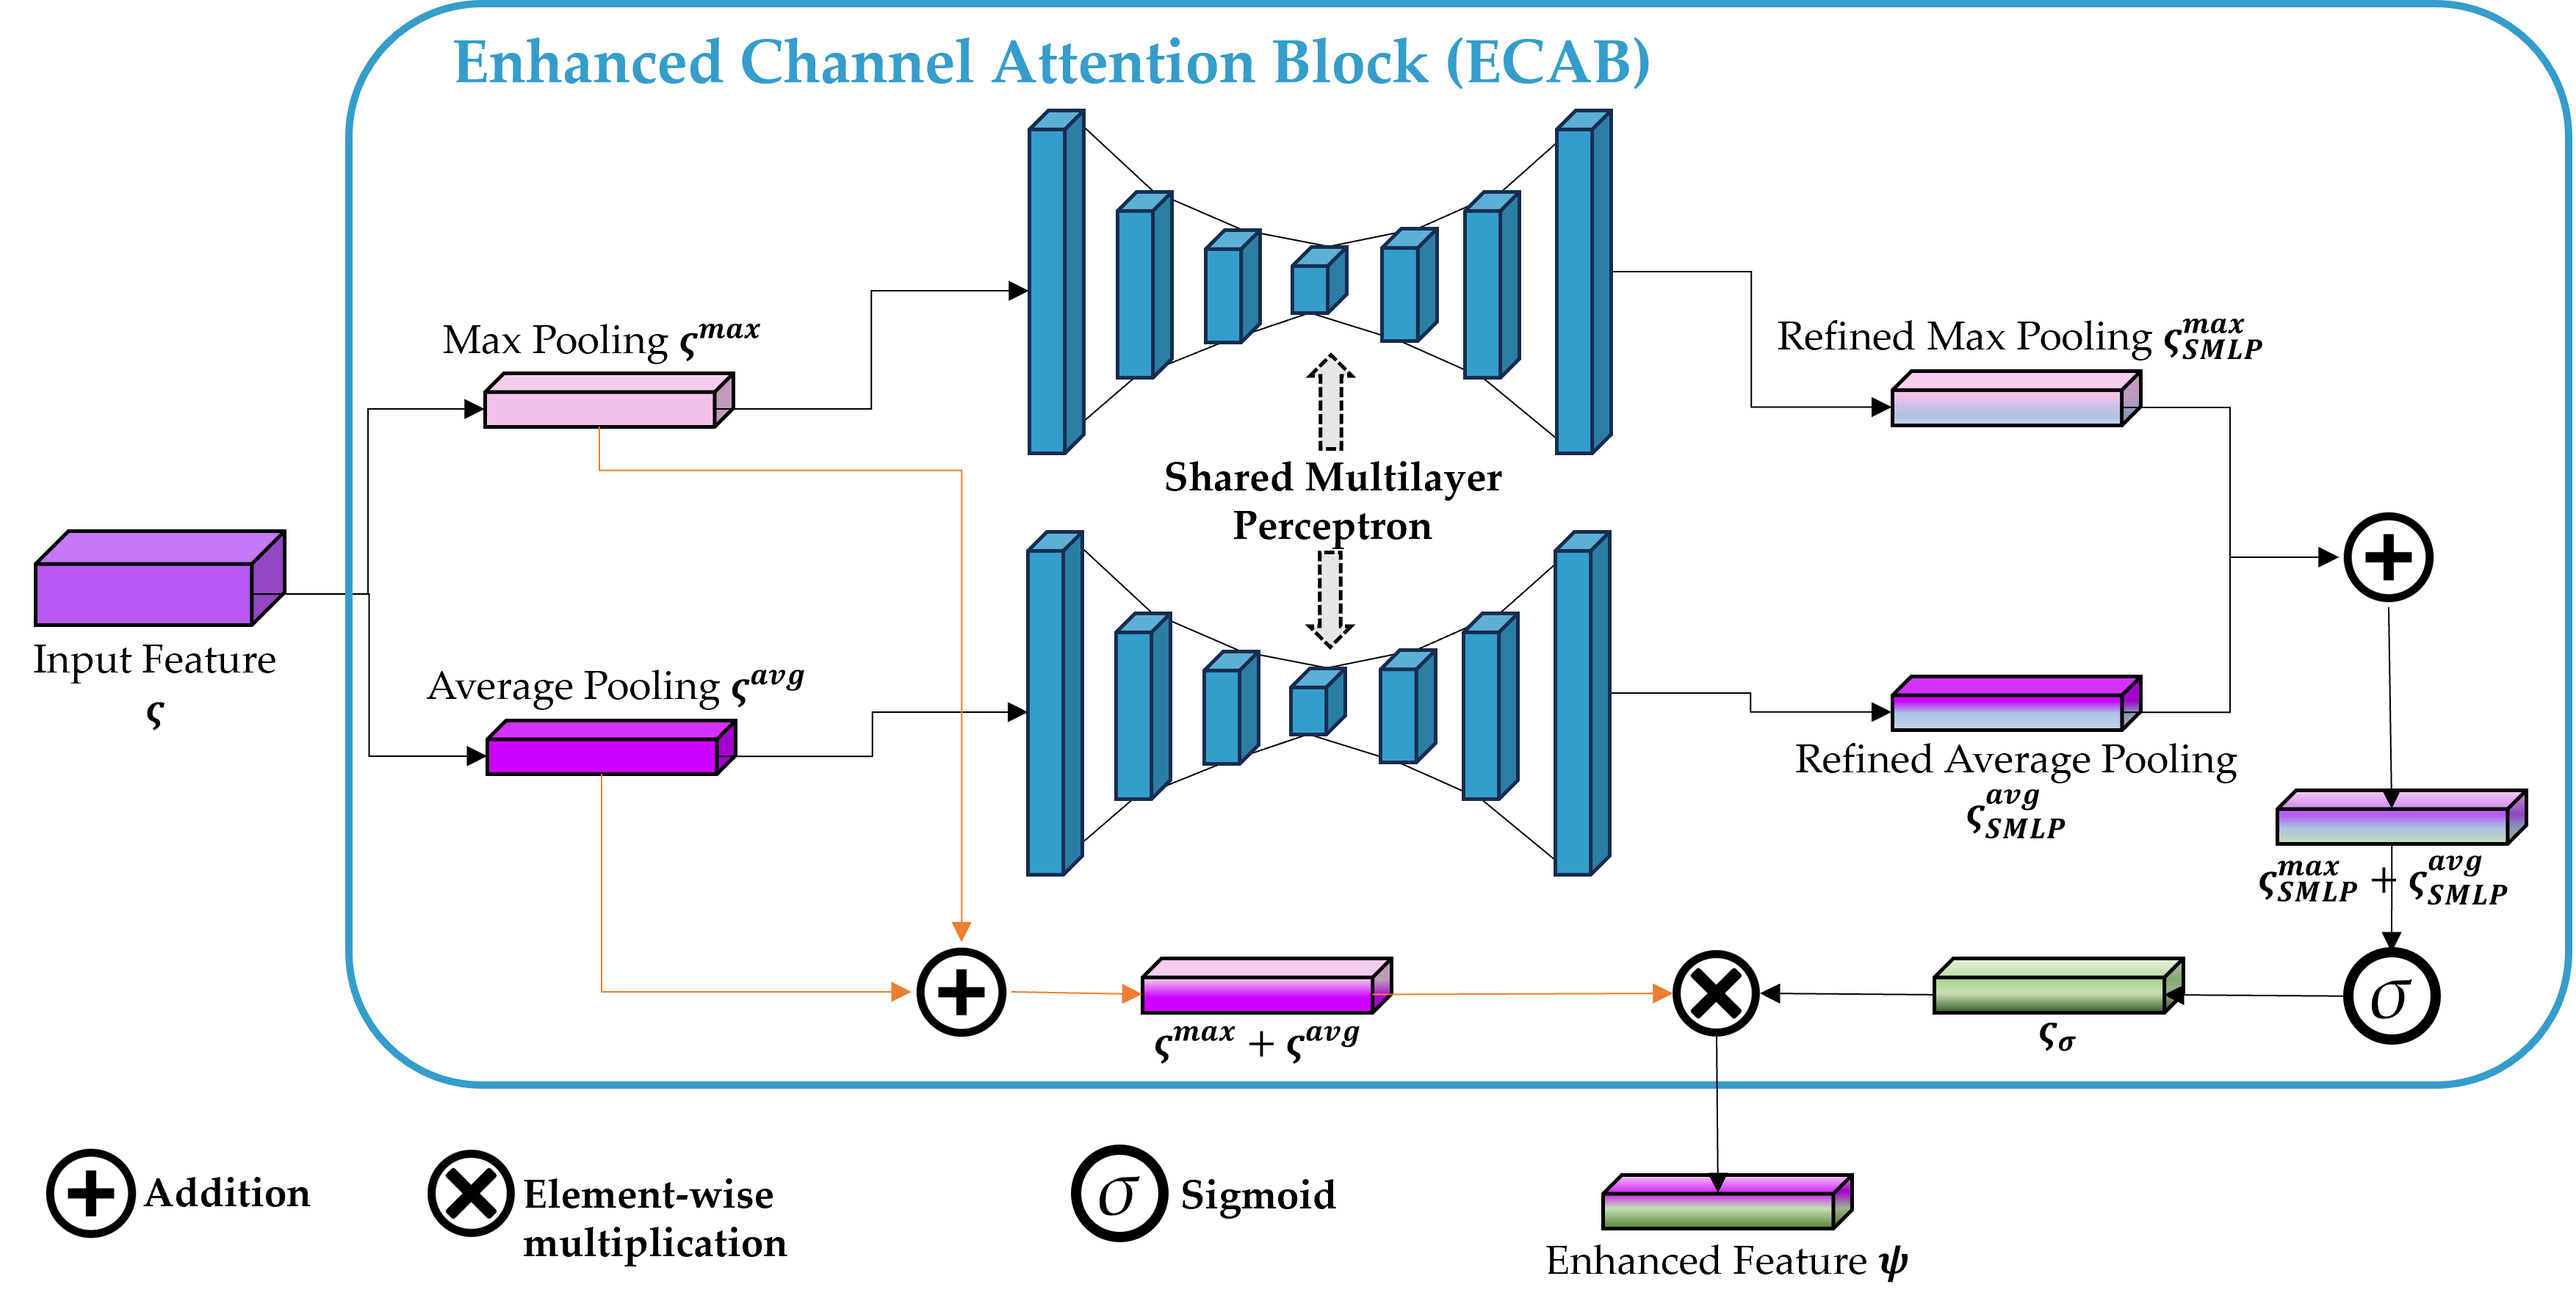
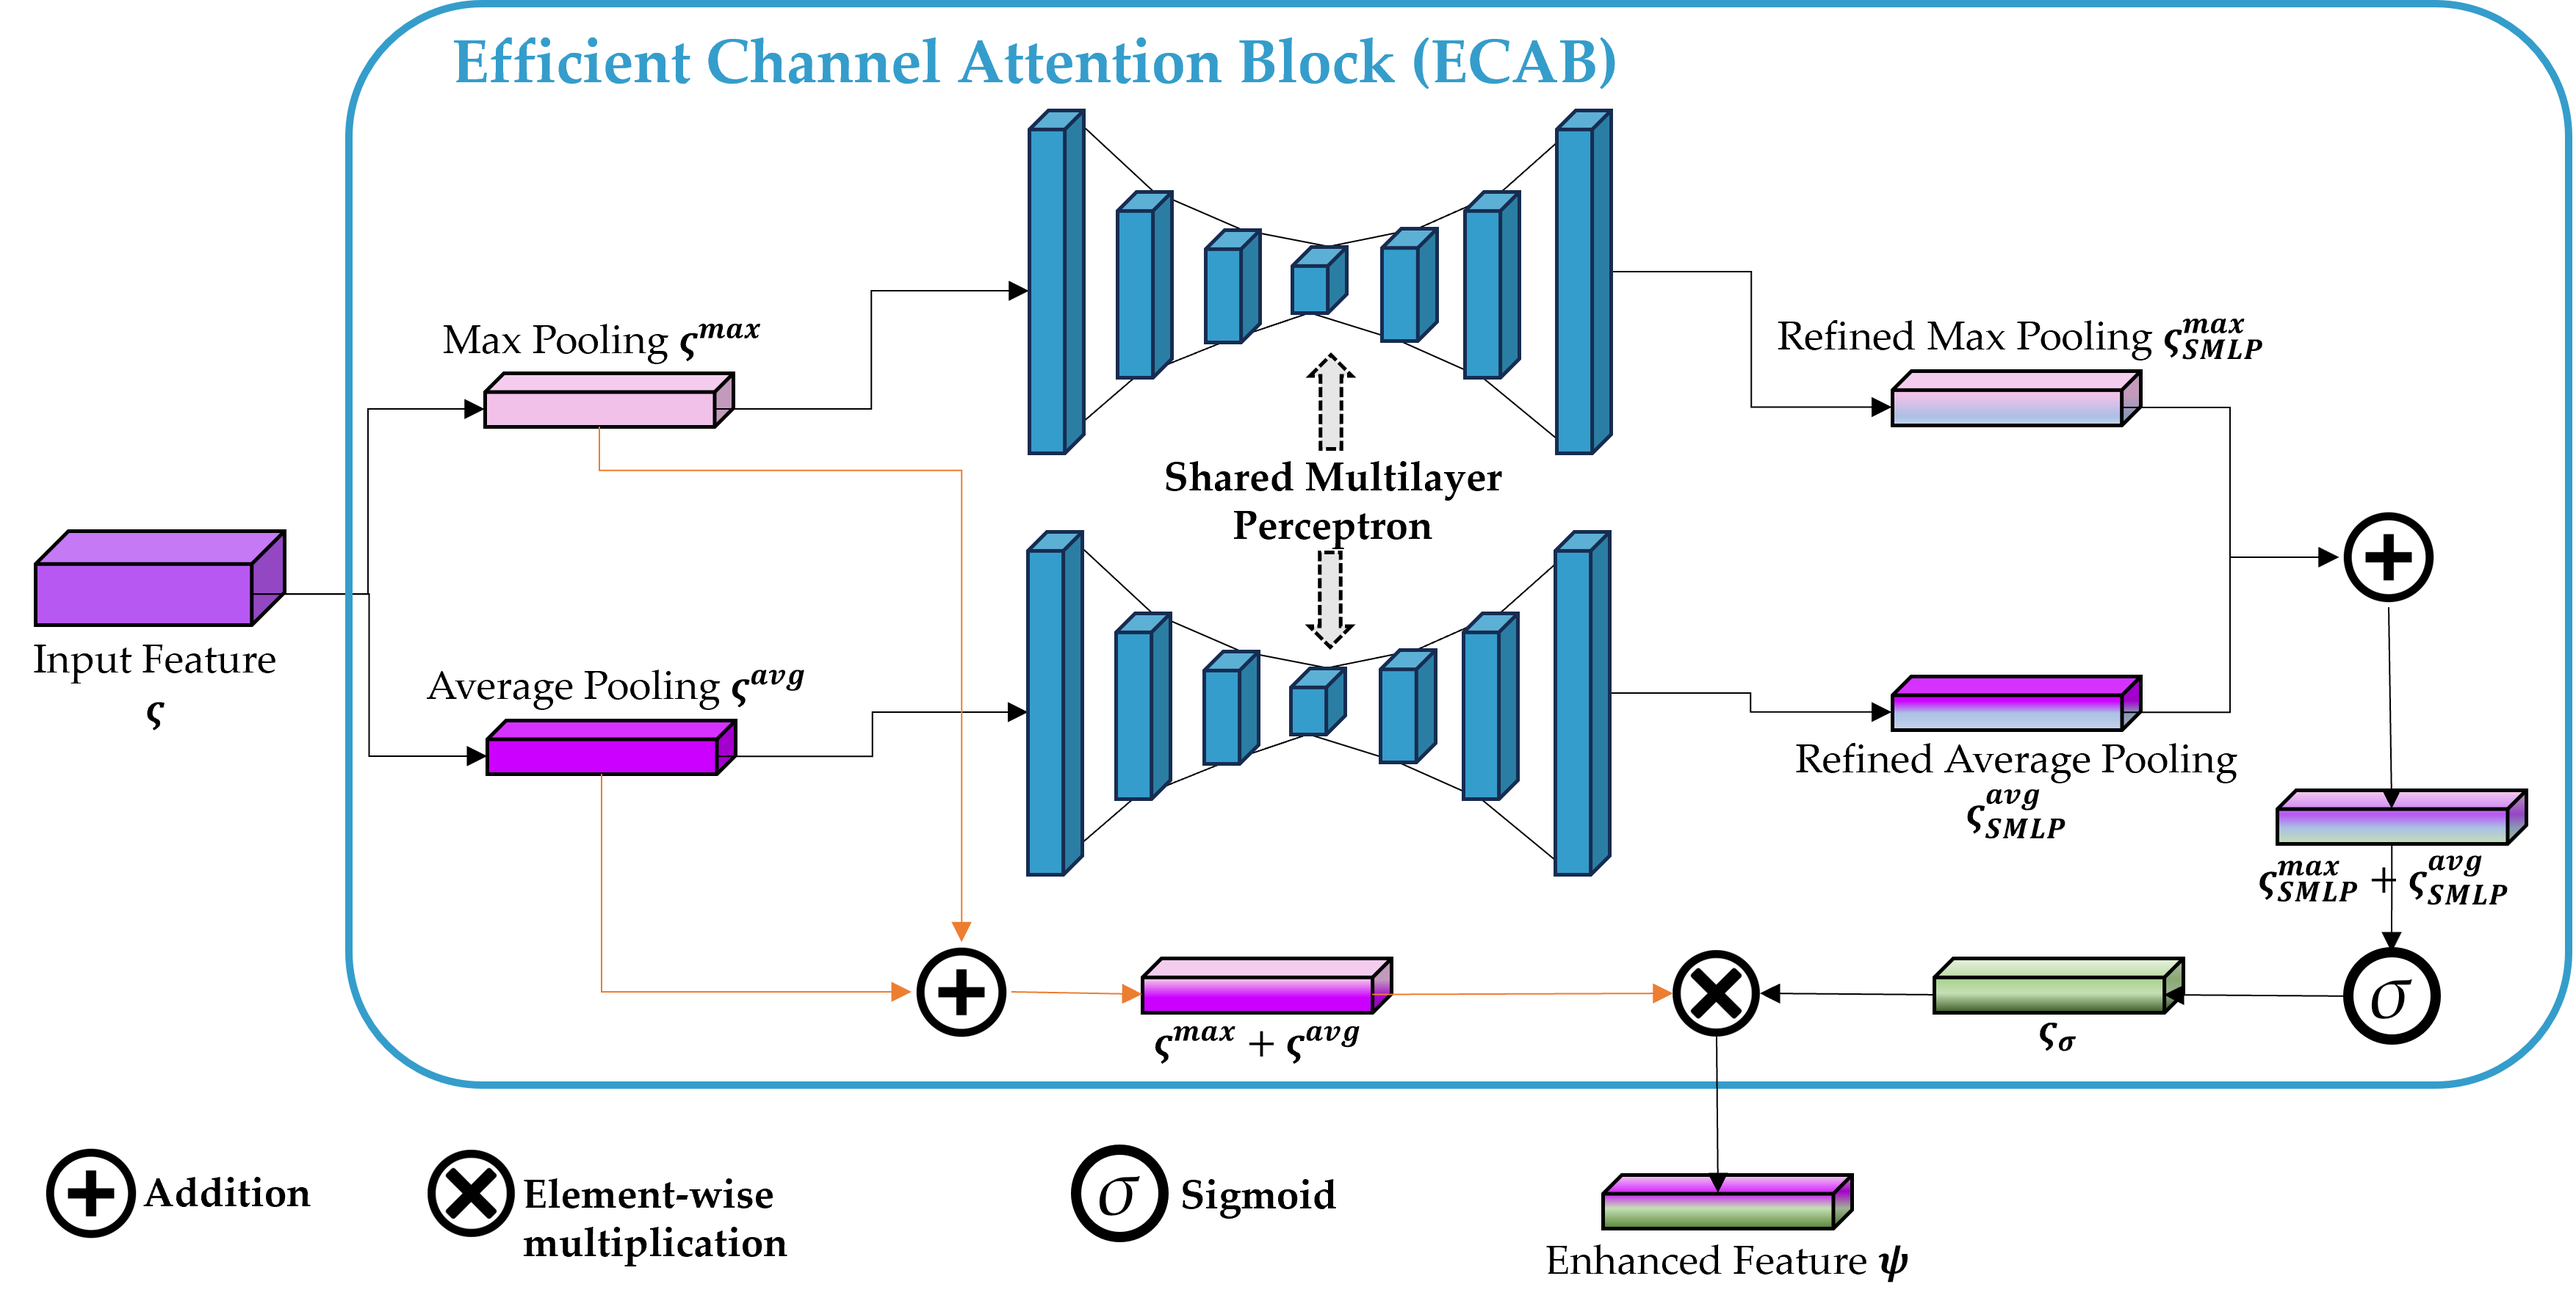
update images and texts

Changed region(s): [[0.1865, 0.0308, 0.6527, 0.0617]]

diff --git a/index.html b/index.html
@@ -91,18 +91,20 @@
           <h1 class="title is-1 publication-title">CORE-ReID: <u>C</u>omprehensive <u>O</u>ptimization and <u>R</u>efinement through <u>E</u>nsemble fusion in Domain Adaptation for person re-identification</h1>
           <div class="is-size-4 publication-authors">
             <span class="author-block">
-              <a href="">Trinh Quoc Nguyen</a><sup>1</sup>,</span>
+              <a href="">Trinh Quoc Nguyen</a><sup>1, 2, *</sup>,</span>
             <span class="author-block">
-              <a href="">Oky Dicky Ardiansyah Prima </a><sup>1</sup>,</span>
+              <a href="">Oky Dicky Ardiansyah Prima </a><sup>1, *</sup>,</span>
             <span class="author-block">
               <a href="">Katsuyoshi Hotta</a><sup>2</sup>.
           </div>
           <br>
           <div class="is-size-5 publication-authors">
             <span class="author-block"><sup>1</sup><a href="https://www.iwate-pu.ac.jp/en/">Iwate Prefectural University</a>,</span>
-            <span class="author-block"><sup>2</sup><a href="https://cybercore.co.jp/">Cybercore AI</a>.</span>
+            <span class="author-block"><sup>2</sup><a href="https://cybercore.co.jp/">CyberCore Co., Ltd</a>.</span>
           </div>
-
+          <div class="is-size-5 publication-authors">
+            <span class="author-block"><sup>*</sup> Correspondence: <a href="">g236v201@s.iwate-pu.ac.jp (T.Q.N.)</a>; <a href="">prima@iwate-pu.ac.jp (O.D.A.P.)</a>.</span>
+          </div>
           <div class="column has-text-centered">
             <div class="publication-links">
               <!-- PDF Link. -->
@@ -136,7 +138,7 @@
               </span>
               <!-- Code Link. -->
               <span class="link-block">
-                <a href=""
+                <a href="https://github.com/TrinhQuocNguyen/CORE-ReID"
                    class="external-link button is-normal is-rounded is-dark">
                   <span class="icon">
                       <i class="fab fa-github"></i>
@@ -190,14 +192,17 @@
              to address Unsupervised Domain Adaptation (UDA) for person Re-identification (ReID).
           </p>
           <p>
-            The framework utilizes CycleGAN to generate diverse data that harmonizes differences 
-            in image characteristics from different camera sources.
-             Based on a pair of teacher-student networks, the framework integrates multi-view features for
-              multi-level clustering to derive diverse pseu-do-labels. 
-              A learnable Ensemble Fusion (EF) that focuses on fine-grained local information within global features 
-              is introduced to enhance learning comprehensiveness and avoid ambiguity asso-ciated with multiple pseudo-labels.
-               Experimental results on two common UDA in person ReID demonstrate significant performance gains over state-of-the-art approaches. Additional enhancements, such as Random Color Dropout to mitigate deviation effects and adaptive fusion of global and local features using the Resnet101 model, 
-            further contribute to the robustness of the framework. 
+            The framework utilizes CycleGAN to generate diverse data that harmonizes differences in image characteristics 
+            from different camera sources in the pre-training stage. 
+            In the fine-tuning stage, based on a pair of teacher-student networks, 
+            the framework integrates multi-view features for multi-level clustering to derive diverse pseudo labels. 
+            A learnable Ensemble Fusion component that focuses on fine-grained local information within global features 
+            is introduced to enhance learning comprehensiveness and avoid ambiguity associated with multiple pseudo labels. 
+            Experimental results on three common UDA in person ReID demonstrate significant performance gains 
+            over state-of-the-art approaches. Additional enhancements, 
+            such as Efficient Channel Attention Block and Bi-directional Mean Feature Normalization 
+            mitigate deviation effects and adaptive fusion of global and local features using the Resnet-based model, 
+            further contribute to the robustness of the framework.  
           </p>
           <p>
             The proposed framework ensures clarity in fusion features, avoids ambiguity,
@@ -242,12 +247,14 @@
                 class="interpolation-image"
                 alt="Interpolate start reference image."/>
           <p><b>Figure 2.</b> Our method follows a specific pipeline to create the comprehensive training set for the source domain. 
-            Initially, we combine both the training set (depicted in green boxes) and the test set (represented by dark green boxes)
+            Initially, we combine both the training set (depicted in <b style="color:green;">green</b> boxes) and 
+            the test set (represented by <b style="color:#006600;">dark green</b> boxes)
              within the source dataset, forming the total training set con-sisting of real images. 
              This combined set is then employed to train the camera-aware style trans-fer model. 
-             For each real image, the trained transfer model is applied to generate images (indicated by blue boxes 
-             for the training set and dark blue boxes for the test set) that align with the stylistic characteristics of the target cameras. 
-             Subsequently, the real images (green and dark green boxes) and the style-transferred images (blue and dark blue boxes) 
+             For each real image, the trained transfer model is applied to generate images (indicated by <b style="color:#0099ff;">blue</b> boxes 
+             for the training set and <b style="color:#004d99;">dark blue</b> boxes for the test set) that align with the stylistic characteristics of the target cameras. 
+             Subsequently, the real images (<b style="color:green;">green</b> and <b style="color:#006600;">dark green</b> boxes) and the style-transferred images 
+             (<b style="color:#0099ff;">blue</b> and <b style="color:#004d99;">dark blue</b> boxes) 
              are amalgamated to produce the final training set within the source domain.</p>
         </div>
       </div>
@@ -321,9 +328,9 @@
           <img src="./static/images/Figure5.png"
                 class="interpolation-image"
                 alt="Interpolate start reference image."/>
-            <p><b>Figure 5.</b> Overview of our CORE-ReID framework. BMFN denotes Bi-directional mean feature Normalization. 
+            <p><b>Figure 5.</b> Overview of our <b>CORE-ReID</b> framework. <b>BMFN</b> denotes Bi-directional mean feature Normalization. 
               We combined local features and global features using Ensemble Fusion.
-                The ECAB in Ensemble Fusion promotes to enhance the features.
+                The <b>ECAB</b> in Ensemble Fusion promotes to enhance the features.
                 By using BMFN, the framework can merge the feature from original image x_(T,i) and its paired flipped image x_(T,i)^', 
                 then produce fusion feature  φ_l,l∈{top,bot}. The student network is optimized using pseudo labels in a supervised manner, 
               while the teacher network is updated by computing the temporal average of the student networks via the update momentum.</p>
@@ -340,7 +347,7 @@
           <img src="./static/images/Figure6.png"
                 class="interpolation-image"
                 alt="Interpolate start reference image."/>
-            <p><b>Figure 6.</b> The Ensemble Fusion component. ς_top  and ς_bot   features are passed through a component namely Enhanced Channel Attention Block (ECAB)
+            <p><b>Figure 6.</b> The Ensemble Fusion component. ς_top  and ς_bot   features are passed through a component namely Efficient Channel Attention Block (ECAB)
                to produce the channel attention maps by exploiting the inter-channel relationship of features which helps to enhance the features. </p>
         </div>
       </div>
@@ -350,12 +357,12 @@
     <!-- Paper Section -->
     <div class="columns is-centered has-text-centered">
       <div class="column">
-        <h2 class="title is-4">Enhanced Channel Attention Block</h2>
+        <h2 class="title is-4">Efficient Channel Attention Block</h2>
         <div class="content has-text-justified">
           <img src="./static/images/Figure7.png"
                 class="interpolation-image"
                 alt="Interpolate start reference image."/>
-            <p><b>Figure 7.</b> The structure of Enhance Channel Attention Block. The Shared Multilayer Perceptron has odd h hidden layers, 
+            <p><b>Figure 7.</b> The structure of Efficient Channel Attention Block. The Shared Multilayer Perceptron has odd h hidden layers, 
               where the first (h-1)/2 layers are reduced the size with the reduction rate r, and the last (h-1)/2 layers will be expanded with the same rate r. </p>
         </div>
       </div>
@@ -693,7 +700,7 @@
          href="#">
         <i class="fas fa-file-pdf"></i>
       </a>
-      <a class="icon-link" href="#" class="external-link" disabled>
+      <a class="icon-link" href="https://github.com/TrinhQuocNguyen/CORE-ReID" class="external-link" disabled>
         <i class="fab fa-github"></i>
       </a>
     </div>
